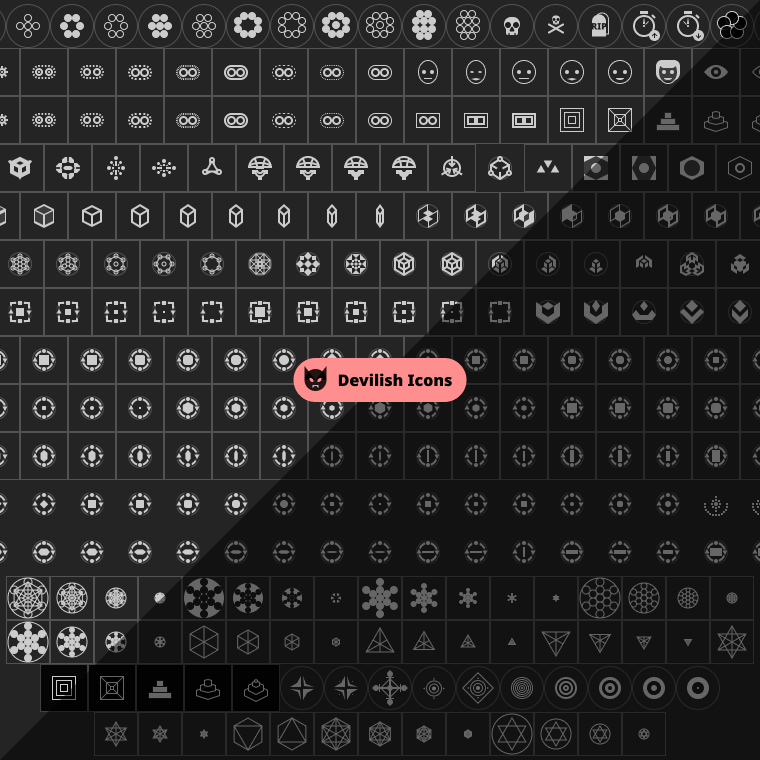
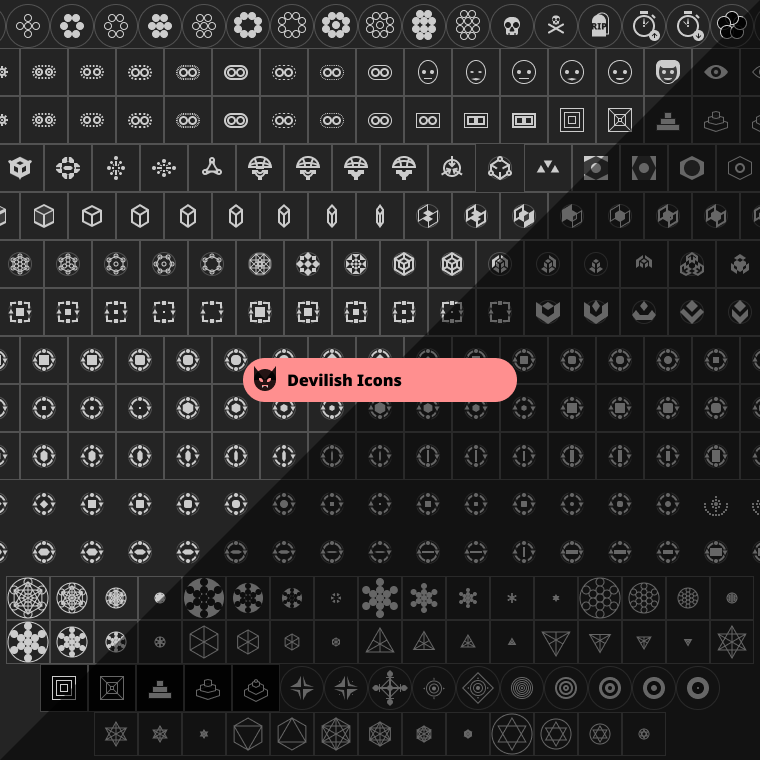
Style Updates
Style Updates

Changed region(s): [[0.3026, 0.4539, 0.6961, 0.5447]]

diff --git a/index.html b/index.html
@@ -62,12 +62,14 @@
         }
 
         h1 {
-            font-weight: 100;
+            font-size: 1.5rem;
+            font-weight: 400;
             margin: 0 0 0.25rem;
+            transition: all 1000ms ease;
         }
 
         h4 {
-            font-weight: normal;
+            font-weight: 500;
             margin: 0;
             color: black;
         }
@@ -92,6 +94,7 @@
             border-radius: 2em;
             transition: all 1000ms ease;
             outline: 0em solid transparent;
+            display: block;
         }
 
         a.button:hover,
@@ -177,6 +180,10 @@
         }
 
         @media only screen and (min-width: 60em) {
+            h1 {
+                font-size: 2rem;
+            }
+
             .page {
                 flex-direction: row;
                 align-items: center;
@@ -227,7 +234,7 @@
                 <h4>Designer</h4>
             </hgroup>
         </div>
-        <p>John is an award-winning designer, creating enterprise level web
+        <p>John is an award-winning designer, creating enterprise-level web
             applications with a focus on user experience and accessibility.</p>
         <div><a href="https://calendly.com/johnjohnworks/60-minute-meeting" target="_blank" class="button"
                 title="Schedule a Meeting"><img src="src/calendar-add-icon.svg" />&nbsp;&nbsp;&nbsp;Schedule a
@@ -252,8 +259,6 @@
         </div>
     </header>
     <main>
-        <div><small>Portfolio</small></div>
-        <br />
         <div class="thumbnails">
             <div class="thumbnail"><a href="https://www.figma.com/community/file/1119940627973538564" class="thumb"
                     id="id-thumb-case-study-1" title="Devilish Icons" target="_blank">&nbsp;</a></div>
